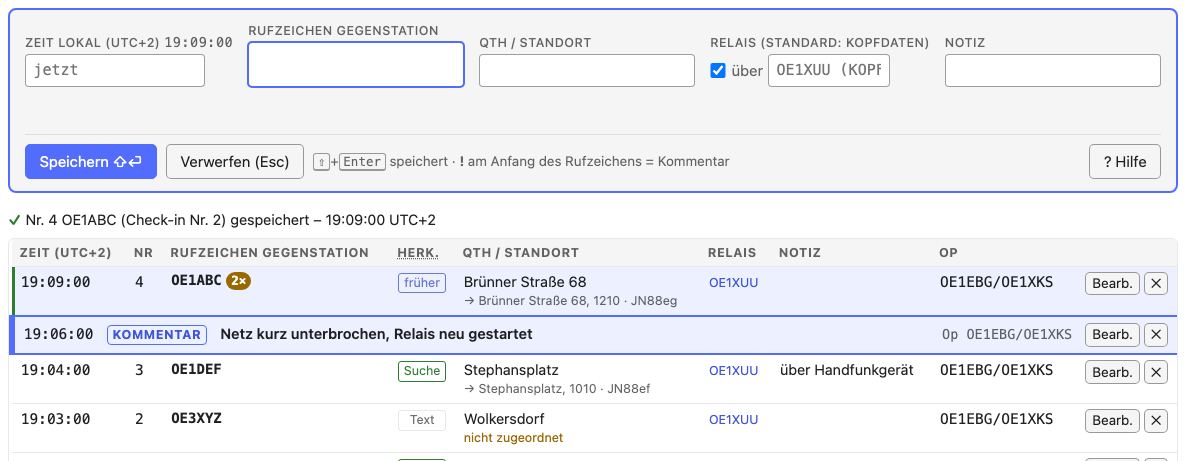
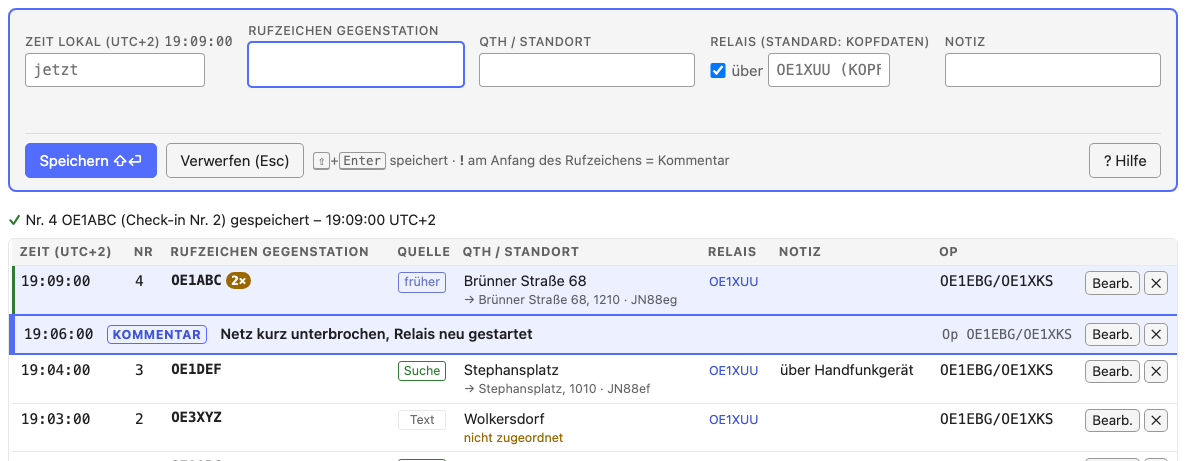
feat(confirm): "Quelle" instead of "Herk."/"Herkunft", one source column
The log column "Herk." is now "Quelle" (manual and screenshots updated),
the KML field "Herkunft" is "Quelle". The CSV keeps one source column,
standort_quelle (Suche / Rufzeichenliste / früheres Log / Freitext);
the old standort_quelle (gewählt/automatisch) and standort_herkunft are
gone, as is the KML field "Zuordnung". ADIF is unchanged.

diff --git a/tools/confirm/js/export.js b/tools/confirm/js/export.js
@@ -36,7 +36,7 @@ export const ADIF_MIME = 'application/octet-stream';
 const LOC_CONF_DE = { exact: 'exakt', high: 'hoch', likely: 'wahrscheinlich', ambiguous: 'mehrdeutig', low: 'unsicher' };
 const LOC_COLS = ['standort_aufgeloest', 'lat', 'lon', 'locator', 'utm', 'utm_zone', 'utm_easting', 'utm_northing',
   'standort_konfidenz', 'standort_quelle',
-  'standort_eingabe', 'standort_herkunft', 'standort_namenstyp', 'standort_gefunden_als'];
+  'standort_eingabe', 'standort_namenstyp', 'standort_gefunden_als'];
 
 // The template's location field (at most one).
 function locationField(tpl) {
@@ -45,9 +45,9 @@ function locationField(tpl) {
 
 // `text` is the location field's value (origin "Freitext" when unresolved).
 function locColumns(loc, text) {
-  const origin = { standort_eingabe: loc?.input || '', standort_herkunft: locOriginText(loc, text) };
+  const origin = { standort_eingabe: loc?.input || '', standort_quelle: locOriginText(loc, text) };
   if (!loc) {
-    return { standort_aufgeloest: '', lat: '', lon: '', locator: '', standort_konfidenz: '', standort_quelle: '',
+    return { standort_aufgeloest: '', lat: '', lon: '', locator: '', standort_konfidenz: '',
       standort_namenstyp: '', standort_gefunden_als: '', ...utmColumns(null, ''), ...origin };
   }
   return {
@@ -60,7 +60,6 @@ function locColumns(loc, text) {
     lon: loc.lon.toFixed(5),
     locator: loc.maidenhead,
     standort_konfidenz: LOC_CONF_DE[loc.confidence] || loc.confidence || '',
-    standort_quelle: loc.manual ? 'gewählt' : 'automatisch',
   };
 }
 
@@ -403,8 +402,7 @@ function kmlStationFields(s) {
     ['Locator', [loc.maidenhead, ...(loc.areaLocators || []).filter(l => l !== loc.maidenhead)].filter(Boolean).join(' ')],
     ['UTMREF', utmFields(loc)?.text || ''],
     ['Konfidenz', LOC_CONF_DE[loc.confidence] || loc.confidence || ''],
-    ['Zuordnung', loc.manual ? 'gewählt' : 'automatisch'],
-    ['Herkunft', locOriginText(loc)],
+    ['Quelle', locOriginText(loc)],
     ['Koordinaten', `${loc.lat.toFixed(5)}, ${loc.lon.toFixed(5)}`],
   ].filter(([, v]) => v !== '' && v !== undefined && v !== null);
 }

diff --git a/tools/confirm/js/app.js b/tools/confirm/js/app.js
@@ -1535,7 +1535,7 @@ function renderLog(highlightCall) {
   fill($('#log-head'), el('tr', {},
     th(timeMode() === 'local' ? `Zeit (${zoneLabel(nowIso(), 'local')})` : 'Zeit UTC'), th('Nr'), th('Rufzeichen Gegenstation'),
     tpl.fields.flatMap(f => [f.type === 'location'
-      ? el('th', { scope: 'col', class: 'origin', title: 'Herkunft des Standorts' }, el('abbr', { title: 'Herkunft des Standorts' }, 'Herk.'))
+      ? el('th', { scope: 'col', class: 'origin', title: 'Quelle des Standorts' }, 'Quelle')
       : null, th(f.label)]),
     th('Relais'), th('Notiz'), th('Op'), el('th', { scope: 'col', class: 'act' }, el('span', { class: 'sr-only' }, 'Aktionen'))));
 
@@ -1597,7 +1597,7 @@ function renderLog(highlightCall) {
   }
 }
 
-// "Herk." cell before a location column: where the location came from
+// "Quelle" cell before a location column: where the location came from
 // (LOC_ORIGINS; a source without a label leaves the cell empty).
 function originCell(loc, text) {
   const k = locOrigin(loc, text);

diff --git a/tools/shared/js/locmeta.js b/tools/shared/js/locmeta.js
@@ -2,7 +2,7 @@
 // (shared/js/locfield.js) and the exports of the tools using it. Pure.
 
 // Where a line's location came from (`loc.origin`, set by the location
-// field, js/locfield.js): label = the short label in the log's "Herk."
+// field, js/locfield.js): label = the short label in the log's "Quelle"
 // column ('' = no label for that source), text = CSV/ADIF/KML wording.
 // Lines from before this existed have no origin: no label (unknown).
 export const LOC_ORIGINS = {

diff --git a/tools/confirm/README.md b/tools/confirm/README.md
@@ -302,7 +302,7 @@ also shows in print).
   callsign; the description (HTML in Google Earth) and `<ExtendedData>`
   (columns in My Maps) list the check-in times in UTC, repeater(s),
   location text and typed input, locator (plus covered squares for an
-  area), confidence, gewählt/automatisch, the source (Herkunft), the name
+  area), confidence, the source (Quelle), the name
   it was found by ("Gefunden als": „Lainzer Krankenhaus“ (früherer Name)),
   its kind ("Art": Kreuzung / Bereich / außerhalb Wiens), the UTMREF and the
   coordinates. The
@@ -705,7 +705,7 @@ Vienna PLZ and district results carry the same locator coverage.
   `originAt` = its time). Unresolved text counts as `text`. `loc.input`
   only holds what was typed for this line ('' for the callsign list and
   earlier check-ins). Lines from before this have no origin (shown as
-  unknown). The log shows the source in its own column "Herk." right
+  unknown). The log shows the source in its own column "Quelle" right
   before the location column, so labels never shift the text; the labels
   are in `LOC_ORIGINS` (`js/model.js`), and a source with an empty label
   leaves the cell empty. The whole `loc` object is in the JSON backup.
@@ -751,8 +751,8 @@ Vienna PLZ and district results carry the same locator coverage.
     dropdown (↓, Enter).
 - **Export.** The CSV gains the columns `standort_aufgeloest`, `lat`, `lon`,
   `locator`, `utm`, `utm_zone`, `utm_easting`, `utm_northing` (see
-  [UTMREF](#utmref-utm-grid-reference-issue-55)), `standort_konfidenz`, `standort_quelle` (gewählt/automatisch),
-  `standort_eingabe` (typed text), `standort_herkunft` (source),
+  [UTMREF](#utmref-utm-grid-reference-issue-55)), `standort_konfidenz`, `standort_quelle` (source:
+  Suche / Rufzeichenliste / früheres Log / Freitext), `standort_eingabe` (typed text),
   `standort_namenstyp` (Name / anderer Name / umgangssprachlich / früherer
   Name / Kurzform / Kreuzung / Bereich; empty for coordinates, locators and
   unresolved text) and `standort_gefunden_als` (the other name it was found

diff --git a/docs/confirm-anleitung.md b/docs/confirm-anleitung.md
@@ -127,7 +127,7 @@ wird daraus ein Kommentar statt eines Check-ins: „!Netz pausiert“,
 Neueste Zeile oben. Oben stehen die Zahlen: Stationen und Check-ins.
 „Bearb.“ bearbeitet eine Zeile (die vorige Fassung bleibt gespeichert), ✕
 löscht sie (wiederherstellbar unter „Gelöschte Zeilen und automatische
-Sicherungen“). Die Spalte **Herk.** sagt, woher der Standort kommt: *Suche*
+Sicherungen“). Die Spalte **Quelle** sagt, woher der Standort kommt: *Suche*
 (Ortssuche), *früher* (aus einem früheren Check-in), *Call* (Lizenzadresse
 aus der Rufzeichenliste), *Text* (keinem Ort zugeordnet).
 
